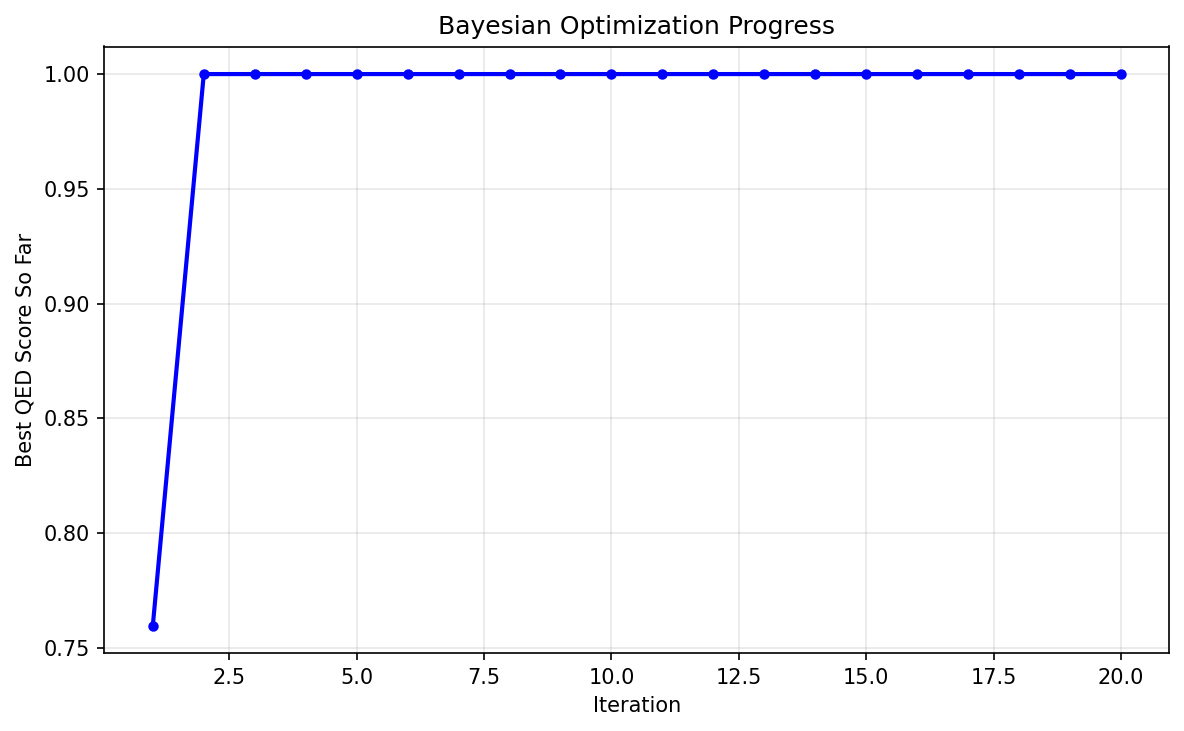
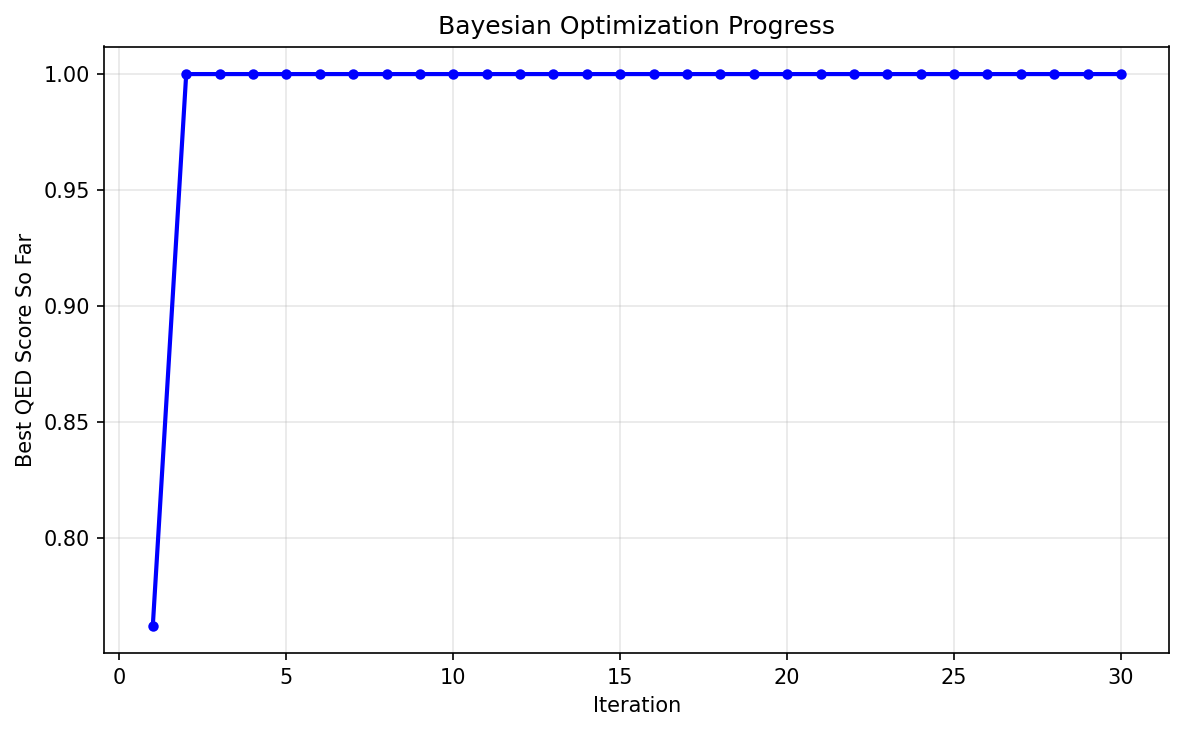
Update script to run 30 iterations and regenerate best so far trace plot

diff --git a/scripts/latent_space_molecular_optimization.py b/scripts/latent_space_molecular_optimization.py
@@ -150,7 +150,7 @@ ax_client.create_experiment(
 )
 
 print("Running optimization...")
-n_iterations = 20
+n_iterations = 30
 results = []
 
 for iteration in range(n_iterations):
